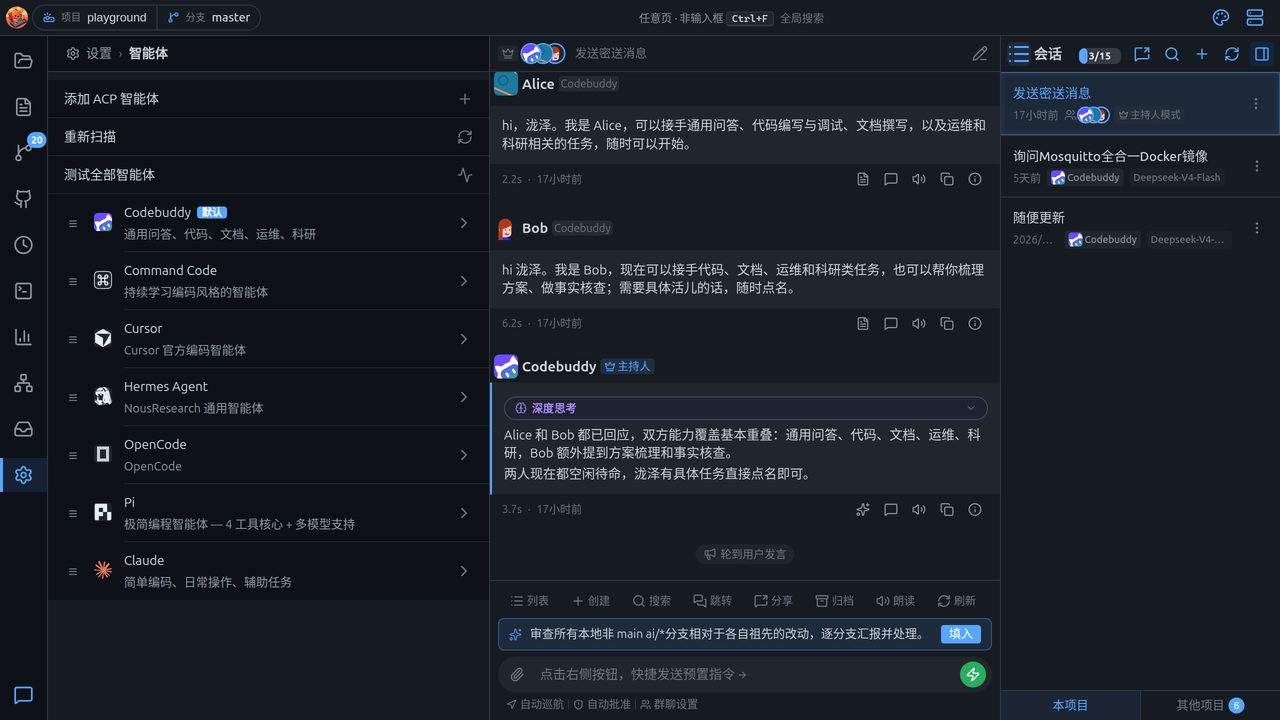
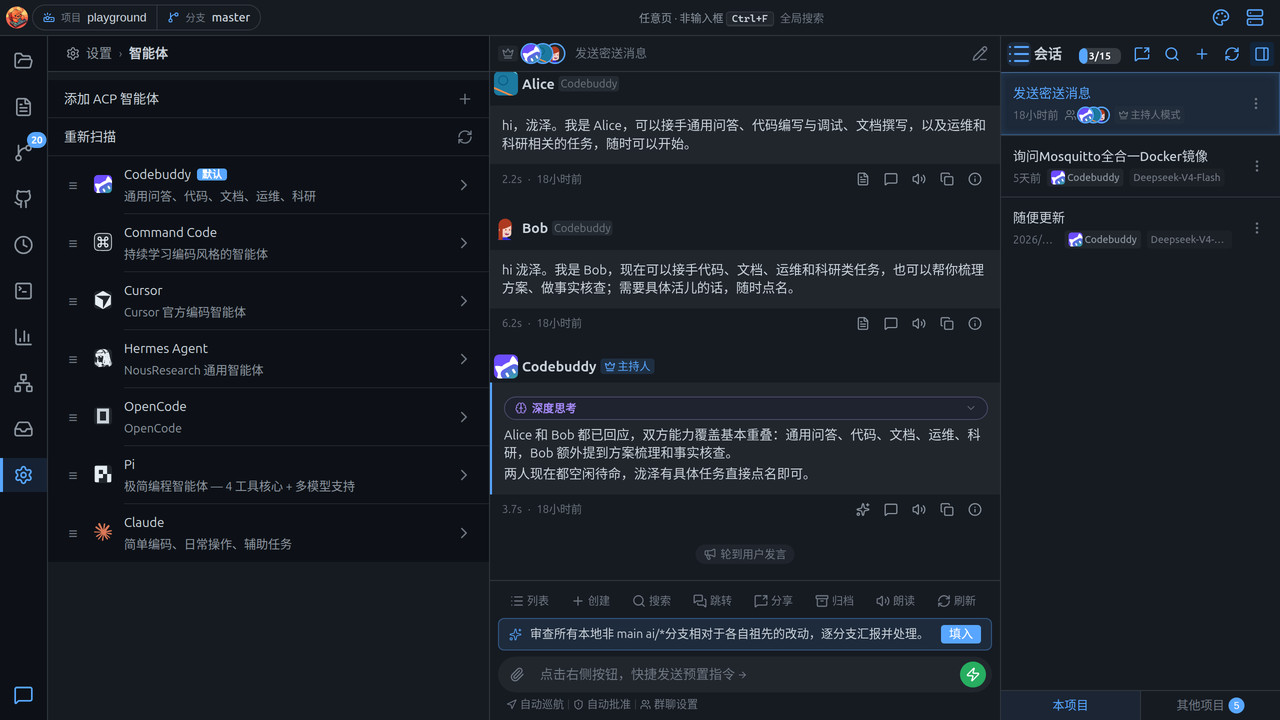
docs(agent): 补「自定义 ACP 智能体」文档并重拍智能体设置配图
#557 上线后，自定义 ACP 智能体只有 /cb-agent 提示词与 API 文档覆盖，用户手册
与设计规格都没有入口说明；同时 set-04 / group-07 两张配图还是「只有重新扫描
一行」的旧版，与当前三行入口不符。

用户手册（settings.md）
- 新增「添加内置列表之外的智能体（自定义 ACP）」：名称 + 启动命令两个字段、
  命令按空格拆分不支持引号、≤4096 字节、以服务端权限执行的信任提示。
- 新增「集成测试（自检）」：配置自检免费不 spawn、深度自检真跑一轮计费且
  配置有 fail 时不执行；「警告」不等于坏了（新 ACP 智能体首轮前无模型）。
- 说明「刚建好时模型列表为空是正常现象」，以及命令写错改 PATCH 而非删了重建。
- 只有内置后端的命令只读（由自动扫描维护）。

设计规格
- config-and-discovery：新增 #557 四条约束（backend 恒 custom-acp 且不入注册表
  ——否则 rescan 会静默覆盖用户命令；能力全靠 agent 自报；命令拆分/长度；仅
  无 spec 者可改 acp_command，空串被拒），新增自检两级一节，并在设计要点补
  「谁拥有 acp_command 由 backend 是否有 spec 决定」。
- ai-backend：补「自定义 ACP 智能体复用同一链路」与自检分两路由的原因。
- .index / README / AGENTS.md：同步索引与架构行；README 中英补该能力。
- openapi：GET /api/agents 补 backendHasSpec 语义（运行期派生，与 PATCH 守卫
  同一判据）。

配图（参数同 docs/Skills/clawbench-user-guide：2560×1440 + zoom=2，LANCZOS
降到 1280×720）
- 新增 set-agents-create-acp（添加对话框，填好未提交）与 set-agents-selftest
  （详情页 ACP 命令行 + 两个自检按钮）。
- 重拍 set-04 / group-07 / group-08。注意另一提交 bfc86162e 已移除「测试全部
  智能体」批量入口，本轮按移除后的界面重拍，并在截图脚本里断言该入口不得出现
  （出现即说明跑的是旧产物）。

验证：go test ./internal/api 与 handler 的 OpenAPI 路由/鉴权比对通过；YAML 可解析。

Changed region(s): [[0.0312, 0.2139, 0.2812, 0.825]]

diff --git a/AGENTS.md b/AGENTS.md
@@ -70,11 +70,11 @@ npx playwright test --config e2e/playwright.config.ts --project=chromium-coverag
 | `internal/wallpaper/` | 壁纸校验 / 缩放 / 编码 + 磁盘布局与生效解析；handler 与 service worker 共用。缩放上限取舍见源码注释 |
 | `internal/gitignore/` | 判定「git 是否会跟踪该路径」：go-git 模式引擎 + 来自 index 的三条规则（已跟踪文件/含已跟踪文件的目录永不忽略、祖先被排除则整体忽略、自身最后一条匹配）。文件管理器灰显与 cloc 排除共用；按真实 `git check-ignore` 差分验证 |
 | `internal/store/` | SQLite 数据层叶子包（只依赖 `model` + `dbutil`，供 `service` 与 `rag` 共用而不成环）：连接句柄与**进程级唯一写锁**（同时串行化 service 写池与 RAG 自有 `*sql.DB` 对同一文件的写）、读写原语、`projects.go` 项目注册表（path↔id 解析 + 缓存 + `ForgetProjectPath`/`RenameProject` + 跨包改名钩子）、`session_queries.go`/`cluster.go` 的跨业务会话与聚类查询 |
-| `internal/service/` | 业务逻辑：聊天持久化、摘要与推荐的调度、调度器（cron + 事件触发任务；cron 可选的前置脚本执行器 `task_script.go`，静默成功即跳过 AI 且不发通知）、SQLite、Schema 迁移、**Agent 存储与守卫**（`agent_store.go`：`disabled` 列 + `project_id` 列（`NULL`=全局，值=仅该项目可见，只拦新建入口不追溯已有会话）+ `GetAgentUsage`/`GetAllAgentUsage` 计数——会话数 = 1:1 聊天 + 活跃 `group_member` 关系、排除任务执行产生的 `scheduled` 会话；删除前校验会话/任务/成员关系非空，`PatchAgentFields` 支持 `disabled`/`project_id`，`ReorderAgents` 单事务写 `sort_order`；`model.SortAgentsByOrder` 是 DB 加载与 reorder 的唯一排序规则）、用量聚合、会话截断；**项目以整数 id 为身份**（`internal/store` 的项目注册表 + `projects_migrate.go` 的路径→id 转换：所有项目作用域表存 `project_id` 而非路径，改名/移动目录只需一条 UPDATE；`project_id=0` 是全局标签与无法归属分享的保留哨兵，故不声明外键）；**项目注册表管理**（`project_registry.go` 的 `ListAllProjects`/`GetProjectDetail`——列表只做单次 `os.Stat` 判目录是否存在、详情附 `DetectRepoLayout` 仓库类型；`project_delete.go` 的 `DeleteProjectData` 在同一事务清理约 15 张项目作用域表 + 子表，写锁内判运行中会话守卫，提交后再调 `rag.DeleteProjectData` 避免持锁死锁）；会话运行态收敛在 `session_runner.go`（单一 owner runner，运行态与可取消性同源），AI 回合编排唯一实现 `run_turn.go`，请求构造唯一实现 `chat_request.go`；**排队消息存独立表 `queued_messages`（出队才落 `chat_history`，`queue_store.go` 的 claim 在同一事务内 DELETE 队列行 + INSERT 历史行，使历史行 id 顺序恒等于对话顺序）**，队列兜底回收 `queue_reaper.go`；**AI 群聊编排器 `group_orchestrator.go`**（主持人/自由两模式共用循环内核 `drainSpeakers`/`runSpeakerTurn`；**正交的自动巡航开关** `cruise`——把循环的终止从「交回用户」改为「成员确认任务已满足」（`<clawbench-goal-satisfied/>` 标签，并入 `internal/grouprouting` 双镜像），host 一人拍板 / free 群发半数 `votes*2>=n`，六种主持人收工形态（含无标签收尾散文与大白话提问）全拦改触发确认回合、开关每回合实时读；`group_store.go` 成员与群设置、`group_inject.go` 增量注入、`group_prompt.go` 提示词、`group_member_request.go` 成员 resume、`group_member_compact.go` 单成员压缩（直接驱动该成员的 ACP 连接、状态落成员行、不在群时间线产出输出；期间消息排队、开始/完成/失败写系统行）；成员即隐藏 `chat_sessions` 行 `session_type='group_member'`，消息只存群会话，`run_turn` 新增 `TimelineSessionID` 解耦时间线语义）；`/btw` 旁路问答（`btw.go`，独立表 `btw_questions`）；**通知中心**（`notifications.go` 的 `StoreNotification`/`ListNotifications`/`ClearNotifications`/`CleanupNotifications`——单表 `notifications` 为唯一数据源，**只追加日志、无已读/无角标**，三条写入路径（会话终态、任务事件、`ForgeNotificationRecorder` sink）**不复用 `pending_events` 门控**，`created_at` 亚秒精度供 `(created_at,id)` 复合游标分页，30 天/500 条双上限；单聊自动巡航 `cruise.go` 的 `NewCruiseRunner` 与 `auto_continue.go` 对称、共用 drain 循环）；最近项目分组（`recent_project_groups.go` + `repo_layout.go`，纯文件系统识别主仓库/工作树/子目录）；含 SessionCleanupWorker / BingWallpaperWorker / ForgePoller（forge 变化轮询）、桌面端升级检查（`desktop_upgrade.go`）等后台 worker |
+| `internal/service/` | 业务逻辑：聊天持久化、摘要与推荐的调度、调度器（cron + 事件触发任务；cron 可选的前置脚本执行器 `task_script.go`，静默成功即跳过 AI 且不发通知）、SQLite、Schema 迁移、**Agent 存储与守卫**（`agent_store.go`：`disabled` 列 + `project_id` 列（`NULL`=全局，值=仅该项目可见，只拦新建入口不追溯已有会话）+ `GetAgentUsage`/`GetAllAgentUsage` 计数——会话数 = 1:1 聊天 + 活跃 `group_member` 关系、排除任务执行产生的 `scheduled` 会话；删除前校验会话/任务/成员关系非空，`PatchAgentFields` 支持 `disabled`/`project_id`，`ReorderAgents` 单事务写 `sort_order`；`model.SortAgentsByOrder` 是 DB 加载与 reorder 的唯一排序规则；`CreateCustomACPAgent` 建自定义 ACP 智能体（backend 恒 `custom-acp`、传输固定 `acp-stdio`、命令 ≤4096 字节且按空格拆分无引号））、用量聚合、会话截断；**项目以整数 id 为身份**（`internal/store` 的项目注册表 + `projects_migrate.go` 的路径→id 转换：所有项目作用域表存 `project_id` 而非路径，改名/移动目录只需一条 UPDATE；`project_id=0` 是全局标签与无法归属分享的保留哨兵，故不声明外键）；**项目注册表管理**（`project_registry.go` 的 `ListAllProjects`/`GetProjectDetail`——列表只做单次 `os.Stat` 判目录是否存在、详情附 `DetectRepoLayout` 仓库类型；`project_delete.go` 的 `DeleteProjectData` 在同一事务清理约 15 张项目作用域表 + 子表，写锁内判运行中会话守卫，提交后再调 `rag.DeleteProjectData` 避免持锁死锁）；会话运行态收敛在 `session_runner.go`（单一 owner runner，运行态与可取消性同源），AI 回合编排唯一实现 `run_turn.go`，请求构造唯一实现 `chat_request.go`；**排队消息存独立表 `queued_messages`（出队才落 `chat_history`，`queue_store.go` 的 claim 在同一事务内 DELETE 队列行 + INSERT 历史行，使历史行 id 顺序恒等于对话顺序）**，队列兜底回收 `queue_reaper.go`；**AI 群聊编排器 `group_orchestrator.go`**（主持人/自由两模式共用循环内核 `drainSpeakers`/`runSpeakerTurn`；**正交的自动巡航开关** `cruise`——把循环的终止从「交回用户」改为「成员确认任务已满足」（`<clawbench-goal-satisfied/>` 标签，并入 `internal/grouprouting` 双镜像），host 一人拍板 / free 群发半数 `votes*2>=n`，六种主持人收工形态（含无标签收尾散文与大白话提问）全拦改触发确认回合、开关每回合实时读；`group_store.go` 成员与群设置、`group_inject.go` 增量注入、`group_prompt.go` 提示词、`group_member_request.go` 成员 resume、`group_member_compact.go` 单成员压缩（直接驱动该成员的 ACP 连接、状态落成员行、不在群时间线产出输出；期间消息排队、开始/完成/失败写系统行）；成员即隐藏 `chat_sessions` 行 `session_type='group_member'`，消息只存群会话，`run_turn` 新增 `TimelineSessionID` 解耦时间线语义）；`/btw` 旁路问答（`btw.go`，独立表 `btw_questions`）；**通知中心**（`notifications.go` 的 `StoreNotification`/`ListNotifications`/`ClearNotifications`/`CleanupNotifications`——单表 `notifications` 为唯一数据源，**只追加日志、无已读/无角标**，三条写入路径（会话终态、任务事件、`ForgeNotificationRecorder` sink）**不复用 `pending_events` 门控**，`created_at` 亚秒精度供 `(created_at,id)` 复合游标分页，30 天/500 条双上限；单聊自动巡航 `cruise.go` 的 `NewCruiseRunner` 与 `auto_continue.go` 对称、共用 drain 循环）；最近项目分组（`recent_project_groups.go` + `repo_layout.go`，纯文件系统识别主仓库/工作树/子目录）；含 SessionCleanupWorker / BingWallpaperWorker / ForgePoller（forge 变化轮询）、桌面端升级检查（`desktop_upgrade.go`）等后台 worker |
 | `internal/ai/` + `backends/` | AI 后端抽象：`AIBackend` → `CLIBackend`（CLI+行解析）或 `ACPBackend`（JSON-RPC over stdio）；18 个后端子包；CLI/ACP 均支持无进度看门狗（ACP 侧按**模型进展**判定，与连接活性双信号分离）；`compact_detect.go` 识别各后端上下文压缩信号（压缩后下一轮重注入系统提示；精确信号 = 工具调用/`_meta`/协议事件/adapter 自己的完成通知文本，兜底 = usage 占用塌陷 ≥60%；模型在回复里自称「已压缩」的散文不算数）；**运行中插话**（`midturn.go` 的 `MidTurnInjector` 按后端分列：CodeBuddy `session/steer` 可切分回复 / Claude·Codex `_session/steering` 只能合并——能力位 `MidTurnSplitsReply` 决定前端是否标「回复已并入上一轮」；注入走裸 `CallRaw` 通道与 SDK 共用 lockedWriter，且必须先过 `PromptInFlight()` 防 Codex 幽灵轮）；**点选切模型**（`ACPPlugin.ModelSwitchMethod` + `acp_model_switch.go`：Hermes 收 `set_config_option(model)` 只存不读，真正认 `session/set_model`）；ACP 客户端能力按 agent 定制（CodeBuddy 隐藏 Terminal / `fs.readTextFile`——声明能力会替换其原生工具实现）；ACP 连接缓存状态用 leaf lock `stateMu`（绝不在 RPC 期间持有），避免通知回调与在飞 RPC 互相等待致通知队列溢出杀连接 |
 | `internal/askquestion/` | `<clawbench-ask-question>` 载荷解析的**唯一** Go 实现（叶子包，不 import 任何 internal 包）；与前端 `web/src/utils/askQuestion.ts` 互为镜像，由 `testdata/parity_corpus.json` 双向固化。契约：检测即解析；不可解析时剥离标签、把标签内文字作为 Fallback 交给 Markdown 渲染（`Match.Fallback`），**绝不丢内容**。旧 XML 子元素格式与标签内 JSON 已不再解析 |
 | `internal/grouprouting/` | 群聊路由标签（`<clawbench-mention targets="A,B">…</clawbench-mention>` + `<clawbench-group-end/>`）解析的**唯一** Go 实现（叶子包，不 import 任何 internal 包）；与前端 `web/src/utils/groupRouting.ts` 互为镜像，由 `testdata/parity_corpus.json` 双向固化。契约与 askquestion 一致（检测即解析、不可解析不剥离、绝不丢内容）。密送（`private` 提及）的注入侧 fail-closed（`StripProtocolTags` 剥一切畸形/嵌套形态）与显示侧 fail-open 分列两套 |
-| `internal/model/` | 数据模型、后端注册表、模型发现（`ModelSource` 注册表 + 单一合并点 `ResolveModels`）、27 个 LLM Provider；Agent 含 `avatar`（用户自选的 DiceBear SVG）、`disabled`（禁用开关）与 `project_id`（「仅当前项目」作用域）字段，都贯穿 DB 列与两条持久化路径（`LoadAgentsFromDB`/`loadAgentsFromDBRows` 读、`SaveAgent`/`saveAgentToDB` 写）；`SortAgentsByOrder`（`sort_order` 升序 + `id` 决胜）是 DB 加载与 reorder 共用的唯一排序规则；`ThinkingEffortByModel`（`agents.thinking_effort_by_model`）按模型 id 记忆用户显式选择的思考档位；真正解析一轮用哪个档位的是 `service.EffectiveThinkingEffortForModel`（`chat_request.go` / `scheduler.go` / 会话切模型共用），优先级 = 该模型的选择 > 全局默认（**但全局默认须在该模型的支持列表里**，否则留空交给 agent 自决）；agent 自报的档位只用于显示 |
+| `internal/model/` | 数据模型、后端注册表、模型发现（`ModelSource` 注册表 + 单一合并点 `ResolveModels`）、27 个 LLM Provider；Agent 含 `avatar`（用户自选的 DiceBear SVG）、`disabled`（禁用开关）与 `project_id`（「仅当前项目」作用域）字段，都贯穿 DB 列与两条持久化路径（`LoadAgentsFromDB`/`loadAgentsFromDBRows` 读、`SaveAgent`/`saveAgentToDB` 写）；`SortAgentsByOrder`（`sort_order` 升序 + `id` 决胜）是 DB 加载与 reorder 共用的唯一排序规则；`ThinkingEffortByModel`（`agents.thinking_effort_by_model`）按模型 id 记忆用户显式选择的思考档位；真正解析一轮用哪个档位的是 `service.EffectiveThinkingEffortForModel`（`chat_request.go` / `scheduler.go` / 会话切模型共用），优先级 = 该模型的选择 > 全局默认（**但全局默认须在该模型的支持列表里**，否则留空交给 agent 自决）；agent 自报的档位只用于显示；**`CustomACPBackend = "custom-acp"` 刻意不在 `BackendRegistry` 里**（用户自定义 ACP 智能体的 backend）——`RefreshAgents` 的 `syncAgentInfrastructure` 按 backend 重写 `acp_command`，进了注册表用户的命令会在下次 rescan/启动时被静默覆盖；`BackendHasSpec` 是运行期字段（加载时由 `FindSpecByBackend != nil` 算出），前端据此决定 ACP 命令行是输入框还是只读，与 PATCH 守卫同一判据 |
 | `internal/speech/` + `internal/stt/` | 语音：TTS（Edge / OpenAI 兼容 / Piper / Kokoro / MOSS-TTS-Nano）与 STT（vLLM Whisper，流式 + 非流式） |
 | `internal/rag/` | RAG：SQLite + sqlite-vec 向量存储 + FTS5 全文检索，OpenAI 兼容嵌入 API；消息聚类（ClusterWorker） |
 | `internal/terminal/` | Web 终端：PTY 会话、环形缓冲回放、多标签 |

diff --git a/docs/spec/README.md b/docs/spec/README.md
@@ -17,7 +17,7 @@ ClawBench 是移动端交互适配优先、桌面端完整支持的多端 AI 工
 | 模块 | 说明 |
 |------|------|
 | [聊天流程](core/chat-flow.md) | 用户发消息到 AI 回复的完整链路：handler → 唯一 turn 实现 → AI 后端 → WebSocket StreamHub → 前端；含 ACP 权限审批、交互式提问卡（`<clawbench-ask-question>` → AskUserQuestion 工具调用，单选可取消，答案状态跨重渲染持久化）、/cb-* 内置命令注入（含 `conversationProjectsList` 跨项目定位）、`/btw` 旁路问答（摘要模型基于压缩快照作答，独立表 `btw_questions`、不进对话）、请求构造唯一实现（直发与排队路径一致）、**异常终止自动续接**（分类器与消息构造唯一实现，取消优先）、文件附件行范围、自动摘要（AI 失败降级结论文本）、分叉上下文按优先级压缩（保留全部用户消息）、thinking 惰性加载、子智能体内容分组（按 `_meta` 父工具调用 id 折叠进父 Agent 卡片）、工具调用耗时、消息元信息区在气泡外（用户消息同样支持复制/详情）、会话重置（卡死会话一键重启进程保留上下文）、消息回溯 Rewind（原址截断会话历史并重启 AI 会话，同时清空计划面板）、完成通知（后台事件时纯通知卡片，类别 chip + 事件类型 chip + 主体名称 + 最多 4 行摘要 + 跨项目整卡换色与区隔带 + 跳转顺带标记已读 + 关闭，5 秒自动关闭，覆盖会话/任务/仓库且与系统通知对齐，详见[应用内完成通知](features/completion-popup.md)）、未读自动清除、错误码透传与展示、取消耗时与 finalize 阶段计时、滚动保持机制、按项目恢复上次会话、输入草稿与会话快照恢复、独立表消息队列（`queued_messages` 出队才落库，drain loop 原子出队 + 出队熔断 + 兜底回收器；DB id 顺序即对话顺序）、**运行中插话**（排队条目并入正在生成的回复，合并式后端标 `injected`）、流式块保序合并（mergeOrderedBlocks）、ACP `_meta` Token/成本明细（最新完整快照合并，供[用量统计](features/usage-stats.md)聚合）展示 |
-| [AI 后端抽象](core/ai-backend.md) | 双传输后端（CLI shell-out + ACP stdio）、流式事件累加（AccumulateBlock + 回放检测 + 连续 thinking 合并 + AskQuestion 转换）、ACP 状态提取（mode/thinking/model）、ACP 崩溃诊断、acpStdoutFilter 协议修复（含 SessionModelState 提取）、ACP context_state 持久化、ACP 会话恢复重试与 NewSessionFallback（Initialize 握手超时短路为类型化错误、不作断连重试）、thinking 惰性加载、CodeWhale 字段重映射、Grok Build 双传输（ACP + streaming-json CLI）、ZCode ACP 桥接（zcode-acp-server）、共享规则模板、跨智能体 Skill 发现（`internal/skill`：递归扫描 + 五类来源去重（含项目级 `.agents/skills`）+ git 源同步 + `service.AppendSkillsSection` 两处 prompt 注入）、连接管理（AgentID/BackendID 无锁防死锁、用户取消保护存活连接、ensureAliveWithSession 使用 ResumeSession）、LoadSession 异步回放、ListSessions 磁盘扫描回退、EnsureAlive、CodeBuddy MCP 配置注入、CodeBuddy Plugin Skills 竞态修复、CodeBuddy Agent Teams 桥接（`teamUpdate`/`memberEvent` 按成员名回填 parent id）、客户端能力协商按 agent 定制（Terminal / fs.readTextFile 作为行为开关）、ACP `_meta` 扩展元信息解析（per-agent 归一化 → chat_metadata）、子智能体父工具调用归属（`_meta` parentToolCallId / parentToolUseId → ParentToolCallID）、压缩后系统提示重注入（compact_detect）、重放过滤按整轮 requestId 集合判定、无进度看门狗按模型进展判定（与连接活性双信号分离）、**运行中插话策略按后端分列**（CodeBuddy `session/steer` 可切分 / Claude·Codex `_session/steering` 合并降级，`MidTurnSplitsReply` 能力位 + `PromptInFlight()` 幽灵轮守卫，注入走裸 `CallRaw` 通道） |
+| [AI 后端抽象](core/ai-backend.md) | 双传输后端（CLI shell-out + ACP stdio）、流式事件累加（AccumulateBlock + 回放检测 + 连续 thinking 合并 + AskQuestion 转换）、ACP 状态提取（mode/thinking/model）、ACP 崩溃诊断、acpStdoutFilter 协议修复（含 SessionModelState 提取）、ACP context_state 持久化、ACP 会话恢复重试与 NewSessionFallback（Initialize 握手超时短路为类型化错误、不作断连重试）、**用户自定义 ACP 智能体复用同一链路**（`custom-acp` 无 spec ⇒ 无 CLI 传输、无 ModelSource，能力全靠 agent 自报）、**智能体自检两级**（静态不 spawn 不计费 / 深度真跑一轮计费，分两个路由）、thinking 惰性加载、CodeWhale 字段重映射、Grok Build 双传输（ACP + streaming-json CLI）、ZCode ACP 桥接（zcode-acp-server）、共享规则模板、跨智能体 Skill 发现（`internal/skill`：递归扫描 + 五类来源去重（含项目级 `.agents/skills`）+ git 源同步 + `service.AppendSkillsSection` 两处 prompt 注入）、连接管理（AgentID/BackendID 无锁防死锁、用户取消保护存活连接、ensureAliveWithSession 使用 ResumeSession）、LoadSession 异步回放、ListSessions 磁盘扫描回退、EnsureAlive、CodeBuddy MCP 配置注入、CodeBuddy Plugin Skills 竞态修复、CodeBuddy Agent Teams 桥接（`teamUpdate`/`memberEvent` 按成员名回填 parent id）、客户端能力协商按 agent 定制（Terminal / fs.readTextFile 作为行为开关）、ACP `_meta` 扩展元信息解析（per-agent 归一化 → chat_metadata）、子智能体父工具调用归属（`_meta` parentToolCallId / parentToolUseId → ParentToolCallID）、压缩后系统提示重注入（compact_detect）、重放过滤按整轮 requestId 集合判定、无进度看门狗按模型进展判定（与连接活性双信号分离）、**运行中插话策略按后端分列**（CodeBuddy `session/steer` 可切分 / Claude·Codex `_session/steering` 合并降级，`MidTurnSplitsReply` 能力位 + `PromptInFlight()` 幽灵轮守卫，注入走裸 `CallRaw` 通道） |
 | [流式传输体系](core/streaming.md) | 单一 WebSocket StreamHub（含断线 ≤10s 缓冲重放、≤50 条上限、>120s 清理订阅）+ 旁注小 SSE/WS 通道；含前端重连状态同步、subscribeOnly 模式、replay_done 事件、投递可观测（`/api/ws/delivery-stats`）、关键事件等待/高频增量丢弃的双层分级、遥测类事件非缓冲投递、流式入库批量合并与 Finalize thinking 单事务重写、前端有界缓冲回放 |
 | [会话生命周期](core/session-lifecycle.md) | 聊天会话的创建、执行、排队、取消、归档（软删除）、物理删除（Destroy）、续接对话（标题时间戳前缀 + 锁定）、分叉（含 beforeMessageId、可选 Agent）、会话标题派生（transcript 双候选提取）、设置即时持久化、会话标签、异常终止自动续接（取消原因优先，与其他路径共用分类器）、过期归档自动清理、Codex 项目级历史会话发现（磁盘扫描 + ACP 合并）、单一 owner runner（运行态与可取消性同源）、唯一 turn 实现与队列兜底回收、优雅退出（WaitStreamsDrained + GracefulStopAll 等待流落库再回收进程） |
 | [摘要管线](core/summarization.md) | 双管线（TTS vs 阅读摘要）、summarizeMessage 统一调度、SummaryCards 结构化卡片、摘要视图 warning/error 横幅通道、多 pass 压缩、Block 提取算法、降级链（AI 失败使用结论文本）、热重载、推荐回复（stable/rolling 分离 + prompt caching） |
@@ -56,7 +56,7 @@ ClawBench 是移动端交互适配优先、桌面端完整支持的多端 AI 工
 | [国际化](infra/i18n.md) | go-i18n bundle、嵌入式 YAML 翻译、X-Locale/Cookie/Accept-Language 优先级链、推送通知独立 Localizer |
 | [SSH 隧道](infra/ssh-tunnel.md) | 双传输：SSH 通道（direct-tcpip 正向 + tcpip-forward/forwarded-tcpip 反向）与 HTTP/2 流隧道（`/api/tunnel/stream` 数据面 + `/api/tunnel/control` 反向控制面，单端口 20000 多路复用，`-R` 靠控制流通知 + 单次 token 认领）、传输方式 `port_forward.transport` **已钉死为 `both`**（服务端在 `ApplyDefaults` 与 PATCH 路径均无条件归一，`ssh`/`h2` 不可达——该字段只剩 web 端健康检查门控一个消费者，两个原生客户端都不消费：Electron 写死 SSH、Android 用本地 SharedPreferences 开关 `tunnel_transport_h2_enabled`；故「服务端只准 ssh」不可执行，已移除可配置性；字段保留以免 web 读到 `undefined` 而误判 ssh-only）、半关闭与 SSH **有界近似**而非逐条等价、方向语义、反向映射仅绑 127.0.0.1 且禁绑保留端口、密码认证、自动 host key、暴力破解防护、端口白名单默认 1024-65535（ISS-186 修复）、端点按受众拆分（公开 `/api/ssh/info` 仅端口发现，`/api/ssh/info/full` 需鉴权） |
 | [Proxy 注册表](infra/proxy.md) | 方向感知（forward/reverse）、反向代理与 Host 头重写（仅正向）、服务器端口分配与保留端口、特权端口映射、健康检查（反向跳过拨号）、并行端口探测（有界并发 + 扫描错误可见）、前端端口展示、CORS 代理（Swagger UI "Try it out"） |
-| [配置与自动发现](infra/config-and-discovery.md) | 零配置启动、DB-backed Agent 存储、双传输选择、供应商注册表、Model 自动发现（启动同步加载 + 后台探测广播 `agents_updated`；含 Kimi 与 Codex 自定义模型发现函数）、ACP 运行时模型验证、**智能体生命周期管理**（会话/任务计数 + 禁用开关 + 删除守卫，会话数含活跃群成员关系、排除任务执行会话）、**「仅当前项目」作用域**（`project_id` 只拦新建入口不追溯历史；默认智能体不可被限定、项目级智能体不可为默认）、**拖拽排序**（`PUT /api/agents/reorder` + `model.SortAgentsByOrder` 唯一排序规则）、多实例 Cookie 隔离、TLS 证书自动发现、Schema 迁移（列探针 + `schema_migrations` 数据迁移台账）、项目 id 化注册表（项目路径→`project_id`，改名即一条 UPDATE）+ 项目注册表管理面（列表/详情/删除数据，锁序与缓存失效陷阱）、默认项目持久化、配置连通性测试、覆盖率门禁 |
+| [配置与自动发现](infra/config-and-discovery.md) | 零配置启动、DB-backed Agent 存储、双传输选择、供应商注册表、Model 自动发现（启动同步加载 + 后台探测广播 `agents_updated`；含 Kimi 与 Codex 自定义模型发现函数）、ACP 运行时模型验证、**用户自定义 ACP 智能体**（`#557`：`backend=custom-acp` 刻意不入注册表，否则 `rescan` 会重写用户填的命令；命令按空格拆分、≤4096 字节；`acp_command` 仅「无 spec」的 agent 可改，前端用服务端 `backendHasSpec` 判定只读）、**智能体自检两级**（配置自检不 spawn 不计费 / 深度自检真跑一轮计费，分两个路由以免误触付费）、**智能体生命周期管理**（会话/任务计数 + 禁用开关 + 删除守卫，会话数含活跃群成员关系、排除任务执行会话）、**「仅当前项目」作用域**（`project_id` 只拦新建入口不追溯历史；默认智能体不可被限定、项目级智能体不可为默认）、**拖拽排序**（`PUT /api/agents/reorder` + `model.SortAgentsByOrder` 唯一排序规则）、多实例 Cookie 隔离、TLS 证书自动发现、Schema 迁移（列探针 + `schema_migrations` 数据迁移台账）、项目 id 化注册表（项目路径→`project_id`，改名即一条 UPDATE）+ 项目注册表管理面（列表/详情/删除数据，锁序与缓存失效陷阱）、默认项目持久化、配置连通性测试、覆盖率门禁 |
 | [事件体系](infra/event-system.md) | ws.Manager 系统广播、StreamHub 会话扇出、断线缓冲重放、遥测非缓冲投递（`system_resources`）、投递丢弃计数（`/api/ws/delivery-stats`）与关键事件可靠投递、摘要与权限事件推送 |
 | [应用自升级](infra/self-upgrade.md) | 版本检查、安装目录可写预检、镜像 tarball URL 归一化、备份替换、进度推送、服务重启与断线轮询、容器内强制就地替换 |
 | [版本号策略](infra/versioning.md) | versionCode（`major*1e8+minor*1e5+patch*1e3+distance`，决定 Android 能否覆盖安装）与 versionName（仅展示）两套口径；CI 走 `--tag-only` 只拉 tag ref 不拉历史，本地走 `git describe` 含 distance；位宽防 `v0.100.0`/`v1.0.0` 撞码；release 带 `--assert` 防退化；桌面载荷只经 npm 分发 + npm 发布走 OIDC Trusted Publishing |

diff --git a/docs/spec/.index.md b/docs/spec/.index.md
@@ -10,7 +10,7 @@
 ### core/ — 核心业务
 
 - [聊天流程](core/chat-flow.md) — 用户发消息到 AI 回复的完整链路，含 ACP 权限审批、交互式提问卡（`<clawbench-ask-question>` → AskUserQuestion 工具调用，单选可取消，答案状态跨重渲染持久化）、/cb-* 内置命令注入（含跨项目项目定位）、`/btw` 旁路问答（摘要模型基于压缩快照作答，独立表 `btw_questions`、不进对话）、唯一 turn 实现与请求构造唯一实现、异常终止自动续接（分类器与消息构造唯一实现，取消优先）、**单聊自动巡航**（会话级正交开关，确认轮循环 + 严格规则 + 上限复用 `group_max_speeches`，与续接互斥）、完成弹窗、未读自动清除、错误码透传、滚动保持机制、按项目恢复会话、输入草稿与会话快照恢复、多模式摘要（mixed/summary/original 消息展示模式）、独立表消息队列（`queued_messages` 出队才落库 + 熔断 + 兜底回收器）、运行中插话（排队条目并入正在生成的回复，合并式后端标 `injected`）、流式块保序合并（mergeOrderedBlocks）、消息元信息区在气泡外、会话重置与消息回溯 Rewind（含清空计划面板）、ACP _meta 用量明细展示（最新完整快照）、子智能体内容分组（按 _meta 父工具调用 id 折叠进父 Agent 卡片）、团队（Agent Teams）成员内容按成员名归组
-- [AI 后端抽象](core/ai-backend.md) — 双传输后端（CLI + ACP stdio）、18 个后端子包（插件注册：init 注册 + 空白 import，含 Cursor / Hermes Agent / Command Code）、acpStdoutFilter 协议修复、CodeWhale ACP 字段重映射、BackendRegistry、共享规则模板、运行中插话策略按后端分列（CodeBuddy `session/steer` 可切分 / Claude·Codex `_session/steering` 合并降级 + `PromptInFlight()` 幽灵轮守卫）、点选切模型（`ModelSwitchMethod`，Hermes 走 `session/set_model`；瞬时/硬失败分流 + `-32603` 按文案判忙）、跨智能体 Skill 发现（`internal/skill`：递归扫描 + 五类来源去重（含项目级 `.agents/skills`）+ git 源同步 + 两处 prompt 注入 + `#技能名` 手动引用）、CodeBuddy Agent Teams 桥接（`teamUpdate`/`memberEvent` 按成员名回填 parent id）、客户端能力协商按 agent 定制（Terminal / fs.readTextFile 的行为开关）、ACP `_meta` 扩展元信息解析、子智能体父工具调用归属（parent linkage）、压缩后系统提示重注入（compact_detect）、重放过滤按整轮 requestId 集合判定、看门狗按模型进展判定、Initialize 超时不作断连重试
+- [AI 后端抽象](core/ai-backend.md) — 双传输后端（CLI + ACP stdio）、18 个后端子包（插件注册：init 注册 + 空白 import，含 Cursor / Hermes Agent / Command Code）、acpStdoutFilter 协议修复、CodeWhale ACP 字段重映射、BackendRegistry、**用户自定义 ACP 智能体复用同一 ACP 链路**（`custom-acp` 无 spec：无 CLI 传输/无 ModelSource，能力全靠 agent 自报）、**自检两级**（静态不 spawn 不计费 / 深度真跑一轮；`backend_known` 判据是「有 spec 或有 CLI 工厂或有 acp_command」）、共享规则模板、运行中插话策略按后端分列（CodeBuddy `session/steer` 可切分 / Claude·Codex `_session/steering` 合并降级 + `PromptInFlight()` 幽灵轮守卫）、点选切模型（`ModelSwitchMethod`，Hermes 走 `session/set_model`；瞬时/硬失败分流 + `-32603` 按文案判忙）、跨智能体 Skill 发现（`internal/skill`：递归扫描 + 五类来源去重（含项目级 `.agents/skills`）+ git 源同步 + 两处 prompt 注入 + `#技能名` 手动引用）、CodeBuddy Agent Teams 桥接（`teamUpdate`/`memberEvent` 按成员名回填 parent id）、客户端能力协商按 agent 定制（Terminal / fs.readTextFile 的行为开关）、ACP `_meta` 扩展元信息解析、子智能体父工具调用归属（parent linkage）、压缩后系统提示重注入（compact_detect）、重放过滤按整轮 requestId 集合判定、看门狗按模型进展判定、Initialize 超时不作断连重试
 - [流式传输体系](core/streaming.md) — 统一 WebSocket StreamHub + 断线缓冲重放 + 投递可观测（delivery-stats）+ 关键事件等待/增量丢弃双层分级 + 遥测非缓冲投递 + 流式入库批量合并与 Finalize thinking 单事务重写 + 前端有界缓冲回放 + 前端静默看门狗（预算由 loading 边沿驱动）+ 旁注小 SSE/WS 通道（file_watch/dir_search/tts_audio）
 - [会话生命周期](core/session-lifecycle.md) — 创建、执行、取消、设置即时持久化、归档、异常终止自动续接（取消优先）、单一 owner runner（运行态与可取消性同源）、唯一 turn 实现与队列兜底回收
 - [摘要管线](core/summarization.md) — 双管线（TTS vs 阅读摘要）、多 pass 压缩、Block 提取算法、降级链
@@ -45,7 +45,7 @@
 - [认证与中间件](infra/auth-and-middleware.md) — 密码认证、本机 AI 短时令牌、隧道信任边界限制、按路由认证、请求链
 - [SSH 隧道](infra/ssh-tunnel.md) — direct-tcpip、端口映射、端口白名单默认 1024-65535（ISS-186）、端点按受众拆分（`/api/ssh/info` 公开最小 / `/full` 需鉴权）
 - [Proxy 注册表](infra/proxy.md) — 端口管理、路由、并行端口探测（有界并发 + 收紧超时 + 错误可见）、前端展示
-- [配置与自动发现](infra/config-and-discovery.md) — 零配置启动、DB-backed Agent、双传输、Model 发现（CLI 输出随版本漂移需 header 感知解析）、**智能体生命周期管理（会话/任务计数 + 禁用开关 + 删除守卫 + 「仅当前项目」作用域 + 拖拽排序）**、多实例 Cookie 隔离、Schema 迁移（列探针 + 数据迁移台账）、项目 id 化注册表（项目路径→`project_id`，改名即一条 UPDATE）、覆盖率门禁
+- [配置与自动发现](infra/config-and-discovery.md) — 零配置启动、DB-backed Agent、双传输、Model 发现（CLI 输出随版本漂移需 header 感知解析）、**用户自定义 ACP 智能体（#557：backend 恒 `custom-acp` 且不入注册表，否则命令会被 rescan 覆盖；空格拆分无引号；`acp_command` 仅无 spec 者可改）**、**智能体自检两级（配置自检不 spawn 不计费 / 深度自检真跑一轮；`backend_known` 判据不是「在注册表里」）**、**智能体生命周期管理（会话/任务计数 + 禁用开关 + 删除守卫 + 「仅当前项目」作用域 + 拖拽排序）**、多实例 Cookie 隔离、Schema 迁移（列探针 + 数据迁移台账）、项目 id 化注册表（项目路径→`project_id`，改名即一条 UPDATE）、覆盖率门禁
 - [国际化](infra/i18n.md) — go-i18n bundle、嵌入式 YAML 翻译、X-Locale/Cookie/Accept-Language 优先级链、推送通知独立 Localizer
 - [事件体系](infra/event-system.md) — WebSocket Manager / StreamHub、ACP 状态重发、缓冲重放（≤10s / ≤50 条）、订阅超时清理（>120s）、遥测非缓冲投递（system_resources）、投递丢弃计数与关键事件可靠投递
 - [应用自升级](infra/self-upgrade.md) — 版本检查、安装目录可写预检、备份替换、进度事件、重启恢复、容器内就地替换

diff --git a/README.en.md b/README.en.md
@@ -110,7 +110,7 @@ clawbench
 | 🎨 **Code Preview & Editing** | CodeMirror browse/edit dual mode, syntax highlighting, autocompletion (11 languages), **Sticky Scroll**, VS Code-style search bar, diff flash highlighting, **Excalidraw canvas** (`.xdraw` / `.excalidraw`), **HTML render preview** (sandboxed iframe, shared by the quick-preview pane and the viewer), path jumps with line ranges |
 | 📝 **Markdown** | Render/source toggle, TOC drawer, LaTeX, Mermaid, image lightbox, **code-link preview overlay**, **self-contained HTML export** (KaTeX fonts inlined) |
 | 📄 **Documents & Media** | Native Word / Excel / PowerPoint rendering, paged PDF with zoom, inline image/audio/video players, lightbox |
-| 🤖 **AI Agents** | **18 backends** (CodeBuddy, Claude Code, OpenCode, Codex, Qoder, VeCLI, CodeWhale, DeepSeek Harness, MiMo, Pi, Copilot, Kimi, Antigravity, Grok Build, ZCode, Cursor, Hermes Agent, Command Code), streaming responses, visible reasoning, **sub-agent content grouping**, **multi-agent team panel** (CodeBuddy Agent Teams: member roster with status, tool counts and token usage; member badge on permission cards), **custom avatars** (40 DiceBear styles; changing the seed re-renders every tile), **drag-to-reorder** (order applies globally), thinking-depth levels (**remembered per agent + model**, so switching models does not carry the previous level over), persisted model choice, **tap-to-switch model** (Hermes goes through `session/set_model`), persisted ACP context state, **session/task counts + disable toggle + delete guard** (a disabled agent is hidden from every creation entry; existing sessions are unaffected), **"current project only" scope** (an agent visible in just one project), **cross-agent skill discovery** (a Skill installed by any agent is visible to all agents, including **project-local `.agents/skills`**, with git-source sync and deduplication; auto-injection is opt-in, off by default) |
+| 🤖 **AI Agents** | **18 backends** (CodeBuddy, Claude Code, OpenCode, Codex, Qoder, VeCLI, CodeWhale, DeepSeek Harness, MiMo, Pi, Copilot, Kimi, Antigravity, Grok Build, ZCode, Cursor, Hermes Agent, Command Code), **custom ACP agents** (any tool that speaks ACP over stdio — give it a spawn command, no backend adapter needed), streaming responses, visible reasoning, **sub-agent content grouping**, **multi-agent team panel** (CodeBuddy Agent Teams: member roster with status, tool counts and token usage; member badge on permission cards), **custom avatars** (40 DiceBear styles; changing the seed re-renders every tile), **drag-to-reorder** (order applies globally), thinking-depth levels (**remembered per agent + model**, so switching models does not carry the previous level over), persisted model choice, **tap-to-switch model** (Hermes goes through `session/set_model`), persisted ACP context state, **session/task counts + disable toggle + delete guard** (a disabled agent is hidden from every creation entry; existing sessions are unaffected), **"current project only" scope** (an agent visible in just one project), **cross-agent skill discovery** (a Skill installed by any agent is visible to all agents, including **project-local `.agents/skills`**, with git-source sync and deduplication; auto-injection is opt-in, off by default) |
 | 💬 **AI Conversation** | Tool-call visualization, **interactive question cards**, suggested replies, slash commands (ACP + built-in merged, including **`/btw` side questions** — answered by the summary model from a session snapshot without occupying the current agent), **unified quote cards** (selection / file / issue / pipeline / message share one form; notes editable, jump back to source; a **target-session picker** always appears, offering "add only", "add and open", or a brand-new session, so you can quote across conversations), **external links rendered as selectable text** (long-press to copy; a tap shows the full URL and asks before leaving the app), message queue, **mid-turn interjection** (fold a message into the reply being generated; merge-only backends like Claude/Codex mark it "merged into previous reply"), disconnect protection, **auto-continue on abnormal termination**, **auto-cruise** (a per-session orthogonal switch: the AI keeps pushing the task forward until it confirms completion, instead of handing the floor back after one reply), rewind & fork, auto-summary, RAG result cards, draft restore, completion popup |
 | 👥 **AI Group Chat** | **Multi-agent collaboration/debate**: bring several agents (across backends) into one group. **Host mode** — a host decides who speaks next and gives the instruction; members speak in turn sharing context and a summary is produced at the end; **Free mode** — no host, members relay via **@-mentions**, and can @ you to hand the floor back. **Auto-cruise** (an orthogonal switch) — when on, the loop no longer hands the floor back; members keep working until they confirm the task is done (host decides alone / free mode confirms by majority), with an "Auto-cruise" chip in the session info bar. **The same agent can be added multiple times (instances)** — each instance gets its own nickname (name-pool) and avatar, and discloses the **real agent name**; members have **independent persistent connections** (reusing resume/idle reclamation), **incremental injection** (only what's new since a member last spoke), **@-mention cards** (the card itself is the public call-out, its note is the BCC), **user nickname** (how members address you; kept distinct from agent names both ways), **BCC** (visible to one member only), **parallel speaking** (simultaneously, without seeing each other), **per-member context usage & single-member compaction** (see each member's own window in the roster, compact one member without disturbing the group timeline), member add/remove system events, in-group attachments & quotes, **tap a speaker's avatar to open that agent's config**, human interruption anytime (queued as "interject"), `/cb-*` commands run by the host |
 | 📂 **Session Management** | Create / switch / archive / **remove** sessions, **session tags** (project-scoped, hash-colored), **AI auto-naming** (title generated by the summary model after the first message; shares one implementation with manual "generate title"), unread counted **per item**, per-project session restore, swipe-to-switch toggle, **session sharing** (public read-only link to a conversation snapshot, with in-page TOC, managed per project) |

diff --git a/docs/spec/core/ai-backend.md b/docs/spec/core/ai-backend.md
@@ -91,7 +91,8 @@ sequenceDiagram
 - **CodeBuddy Task* → plan_update 桥接**：CodeBuddy 不发 ACP 的 `session/update.plan` 通知——它的任务清单由 TaskCreate/TaskUpdate/TaskList 工具维护，因此前端「执行计划」面板对 CodeBuddy 会话一直空白。桥接层读取这些工具终态结果中 `_meta["codebuddy.ai/rawResponse"]` 携带的**操作后完整任务快照**（`todos[].content` 为标题、status 为 pending/in_progress/completed），映射为 `plan_update` StreamEvent（全量快照替换语义，与真实 ACP plan 通知一致），并把 PlanState 缓存在连接上，使刷新/重连/REST 加载会话后计划面板仍能重建
 - **OpenCode `todowrite` → plan_update 桥接（`opencode_plan_bridge.go`）**：OpenCode 同样**不发** ACP 的 `session/update.plan` 通知（wire 探针实测 variant 直方图中 `plan`/`plan_update`/`plan_removed` 均为 0），清单只经 `todowrite` 工具暴露：`tool_call_update` 的 `rawInput.todos`（in_progress 帧）与 `rawOutput.metadata.todos`（completed 帧）各携带**全量快照** `[{content, priority, status}]`，多次调用把条目依次推进 pending→in_progress→completed。桥接层只在**终态（completed）帧**解析快照并发出一个 `plan_update`（in_progress 帧携带同一快照，桥接会重复），status/priority 直接采用 OpenCode 词表（unknown 回落 pending/medium），并缓存 PlanState。**识别依据是快照形状而非工具名**：OpenCode 在终态把标题从 `todowrite` 改成 `N todos` 并丢掉 kind，此时解析出的工具名为空，`todos` 数组是唯一可靠判据。mimo（OpenCode fork）共用同一工具面，一并覆盖。真机探针在 `internal/ai/opencode_acp_plan_probe_integration_test.go`（`-tags integration`）
 - **CodeBuddy Agent Teams 桥接（`codebuddy_team_bridge.go`）**：CodeBuddy 的**多智能体团队**（多个具名成员并行协作）走 ACP 而**不新增任何方法**——团队状态挂在标准 `session_info_update` 的 `_meta["codebuddy.ai/teamUpdate"]`（`{type, teamName, isAutoTeam, hasLiveMembers, members[]}`，type 取 `team_created` / `member_status_change` / `team_idle` / `team_deleted`），成员内容挂在标准 content/tool 帧的 `_meta["codebuddy.ai/memberEvent"]`（值即成员名）。**关键差异：成员帧不带 `parentToolCallId`**（实测 116/116），因此现有子智能体归组（按 parent id）**无法路由团队内容**；线上唯一可用的关联键是**成员名**——它同时出现在 Agent 派发工具调用（`_meta.memberName` + `subagentType`，是成员名与 toolCallId 唯一共存处）和每个成员内容帧（`memberEvent`）。桥接层据此记录「成员名 → 派发 toolCallId」并回填 `ParentToolCallID`，让既有前端分组零改动生效（集成方案「方案 A」）。`StreamEvent` 另带 `MemberName` / `MemberColor`，供前端团队面板与权限卡成员徽标使用。协议面实测见 `docs/dev/codebuddy_acp_team_integration.md`，真机探针在 `internal/ai/codebuddy_acp_team_probe_integration_test.go`（`-tags integration`）
-
+- **用户自定义 ACP 智能体走同一条 ACP 链路**：任何能以 stdio 说 ACP 的工具都能接入（`backend=custom-acp`，见[配置与自动发现](../infra/config-and-discovery.md)），**不需要新增后端子包**——`NewACPBackend` 的唯一前提是 `agent.AcpCommand != ""`，spawn 用 `strings.Fields` 拆分该命令（`acp_conn_lifecycle.go`），握手、模式、斜杠命令、权限审批、模型上报全部复用现有实现。代价是能力面完全由该 agent 自报：没有 `BackendSpec` 就没有 `BackendSupportsCLI`、没有 `ModelSource`、没有预置思考档位，因此它只有 ACP 传输一种运行方式，且在首次 `session/new` 之前模型列表为空（**正常状态**，客户端显示「默认」占位并不发 `modelId`）。
+- **智能体自检分两级、分两个路由**：`POST /api/agents/{id}/self-test` 只读持久化状态 + 后端注册表 + 文件系统（唯一的副作用是 `exec.LookPath`），**不 spawn、不计费**；`self-test-deep` 真实跑一轮并回报 `{reply, transport, stopReason, durationMs}`（后两者取自**落库的回合元数据**，是事实而非配置）。分成两个路由而不是一个带 flag 的接口，是为了让客户端无法用一个字段意外触发付费调用；深度自检自己先跑静态自检，有 `fail` 就直接返回。**`backend_known` 的判据不是「backend 在注册表里」**——YAML 定义的 agent（E2E 的 acp-mock）与自定义 ACP 智能体都没有注册表条目却完全可用，判据是「有 spec / 有 CLI 工厂 / 有存储的 `acp_command`」三者之一，否则自检会在唯一能正常工作的那类 agent 上误报。
 - **ACP context_state 持久化**：ACP 会话的 mode、thinking effort、usage 状态持久化到 `chat_sessions.context_state` 列（JSON 格式）。服务重启后加载会话时即可恢复状态显示，无需等待 ACP 重连推送。部分更新通过原子合并操作写入，避免并发读-写-合并竞态。详见 [会话生命周期](session-lifecycle.md)
 - **流式事件标准化**：各后端不同的输出格式经 LineParser（CLI）或 ACP 事件翻译层（ACP）统一为标准 StreamEvent 类型。ACP 额外提供 mode_update、config_update、thinking_effort_update、plan_update、model_list_update、commands_update 等能力事件。`model_list_update` 与 REST 通道下发的是**同一份已解析列表**——ACP 只给出原始模型清单，后端经 `EnrichModelList` 附加 CLI 基线与合并结果（CLI 模型 + ACP 模型按 id 合并），三条通道（WS 事件、`GET /api/agents`、`GET /api/ai/chat`）形状一致，避免"新建会话只看到 ACP 模型、看不到 CLI 模型"这类因消费方各自补全而出现的差异
 - **AskQuestion 标签转换**：`ConvertAskQuestionBlocks()` 检测文本 Block 中的 `<clawbench-ask-question>` 标签（AI Agent 偶尔在文本中输出结构化交互请求），标签内为原生 Markdown，将其解析并转换为标准 `tool_use` Block（name=`AskUserQuestion`）。只认标准闭合标签；未闭合或载荷不可解析时保留可见文字。保证前端交互 UI（确认/选择）能统一处理所有形式的交互请求

diff --git a/README.md b/README.md
@@ -106,7 +106,7 @@ clawbench
 | 🎨 **代码预览与编辑** | CodeMirror 浏览/编辑双模式、语法高亮、自动补全（11 种语言）、**Sticky Scroll**、VS Code 风格搜索条、文件改动闪烁高亮、**Excalidraw 画布**（`.xdraw` / `.excalidraw`）、**HTML 渲染预览**（沙箱 iframe，快捷预览窗格与查看器共用）、路径跳转与行范围导航 |
 | 📝 **Markdown** | 渲染/源码切换、TOC 抽屉、LaTeX 公式、Mermaid 图表、图片灯箱、**代码链接预览浮层**、**自包含 HTML 导出**（KaTeX 字体内联） |
 | 📄 **文档与媒体** | Word / Excel / PowerPoint 原生渲染、PDF 分页缩放、图片/音频/视频内联播放、灯箱放大 |
-| 🤖 **AI 智能体** | **18 个后端**（CodeBuddy、Claude Code、OpenCode、Codex、Qoder、VeCLI、CodeWhale、DeepSeek Harness、MiMo、Pi、Copilot、Kimi、Antigravity、Grok Build、ZCode、Cursor、Hermes Agent、Command Code）、流式响应、思维过程可见、**子智能体内容分组**、**多智能体团队面板**（CodeBuddy Agent Teams：成员名册 + 状态 + 工具计数 + token 用量，权限卡带成员徽标）、**自定义头像**（40 款 DiceBear 风格，改种子整体刷新）、**拖拽排序**（顺序全局生效）、深度思考档位（**按「智能体 + 模型」分别记忆**，换模型不会把上一档位硬套过去）、模型选择持久化、**点选即切换模型**（Hermes 走 `session/set_model`）、ACP 上下文状态持久化、**会话/任务计数 + 禁用开关 + 删除守卫**（禁用即从所有新建入口隐藏、已有会话不受影响）、**「仅当前项目」作用域**（智能体只在某个项目可见）、**跨智能体技能发现**（任意智能体安装的 Skill 对所有智能体可见，含**项目自带 `.agents/skills`**、git 源同步与去重；自动注入为 opt-in，默认关） |
+| 🤖 **AI 智能体** | **18 个后端**（CodeBuddy、Claude Code、OpenCode、Codex、Qoder、VeCLI、CodeWhale、DeepSeek Harness、MiMo、Pi、Copilot、Kimi、Antigravity、Grok Build、ZCode、Cursor、Hermes Agent、Command Code）、**自定义 ACP 智能体**（任何以 stdio 说 ACP 的工具，填启动命令即可接入，无需后端适配）、流式响应、思维过程可见、**子智能体内容分组**、**多智能体团队面板**（CodeBuddy Agent Teams：成员名册 + 状态 + 工具计数 + token 用量，权限卡带成员徽标）、**自定义头像**（40 款 DiceBear 风格，改种子整体刷新）、**拖拽排序**（顺序全局生效）、深度思考档位（**按「智能体 + 模型」分别记忆**，换模型不会把上一档位硬套过去）、模型选择持久化、**点选即切换模型**（Hermes 走 `session/set_model`）、ACP 上下文状态持久化、**会话/任务计数 + 禁用开关 + 删除守卫**（禁用即从所有新建入口隐藏、已有会话不受影响）、**「仅当前项目」作用域**（智能体只在某个项目可见）、**跨智能体技能发现**（任意智能体安装的 Skill 对所有智能体可见，含**项目自带 `.agents/skills`**、git 源同步与去重；自动注入为 opt-in，默认关） |
 | 💬 **AI 对话** | 工具调用可视化、**交互式提问卡**、推荐回复、斜杠命令（合并 ACP 与内置，含 **`/btw` 旁路问答**——由摘要模型基于会话快照作答，不占用当前 agent）、**统一引用卡片**（划词/文件/议题/流水线/消息同一形态，批注可改、可跳回来源；引用与附件**一律先弹目标会话选择**，可只添加、添加并打开或新建会话，支持跨会话引用）、**外链统一为可选中文本**（长按可复制、点击先确认完整 URL 再打开）、消息队列、**运行中插话**（把消息并入正在生成的回复，Claude/Codex 合并式插入会标注「回复已并入上一轮」）、断连保护、**异常终止自动继续**、**自动巡航**（会话级正交开关，AI 持续自我推进到确认任务完成，而非回复一轮就交回）、消息回溯（Rewind）与分叉、自动摘要、RAG 结果卡片、输入草稿恢复、完成弹窗 |
 | 👥 **AI 群聊** | **多智能体协作/辩论**：把多个智能体（可跨后端）拉进一个群。**主持人模式**——主持人决定下一个谁发言并下达指令，成员轮流发言、共享上下文，结束时产出汇总；**自由模式**——无主持人，成员用 **@ 提及**接力，可 @ 你交回人类。**自动巡航**（正交开关）——打开后循环不再交回你，而是持续讨论到成员确认任务已完成（主持人一人拍板 / 自由模式过半确认），会话信息栏显示「自动巡航」chip。**同一智能体可加多次（多实例）**——每个实例有独立昵称（名池名）与头像，并披露**真实智能体名**；成员**独立持久连接**（复用 resume/空闲回收）、**增量注入**（只补上次发言后的新内容）、**@ 成员卡**（卡片即公开点名、批注即密送）、**用户昵称**（成员怎么称呼你，与智能体名双向不重名）、**密送**（只给指定成员看）、**并发发言**（同时发言、互不参考）、**按成员的上下文用量与单成员压缩**（花名册里看每个人自己的窗口占用、单独压缩某个成员的记忆且不打断群时间线）、成员增删系统事件、群内附件与引用、**点发言人头像直达该智能体配置页**、人类随时插话（排队「插话」）、`/cb-*` 命令由主持人执行 |
 | 📂 **会话管理** | 多会话创建/切换/归档/**移除**、**会话标签**（按项目隔离、哈希配色）、**AI 自动命名**（首条消息后由摘要模型生成标题，与手动「生成标题」同实现）、未读按**条目**计数、按项目恢复上次会话、滑动切换开关、**会话分享**（对话快照的公开只读链接，含目录导航，按项目隔离管理） |

diff --git a/docs/Skills/clawbench-user-guide/SKILL.md b/docs/Skills/clawbench-user-guide/SKILL.md
@@ -1070,7 +1070,7 @@ sqlite3 "file:$HOME/.clawbench/ClawBench.db?mode=ro&immutable=1" \
 | 用户昵称 | 设置 → 聊天 → 群聊 → 用户昵称（`chat.user_nickname`） | 智能体在群里称呼你的名字，默认 `User`；@ 芯片显示它（不再显示「你」） |
 | 真实名标签 | `.real-agent-name-tag`（共享组件 `RealAgentNameTag`） | 昵称是自动名池名/`本名 序号` 时显示底层真实智能体名；消息头 `.msg-speaker-real`、成员行 `.gm-real-name`、补全行 `.completion-real-name` 都用它 |
 | @ 成员卡 | `.chat-attachment-tags .mention-card`（名字 `.mention-card-name`，锁 `.mention-card-lock`） | 输入框附件条 |
-| 智能体设置 | `.settings-agents-index__row` / `.settings-agents-index__rescan-row`（**三行**，用 `[data-action=agent-create|agent-rescan|agent-selftest-all]` 区分）/ `.settings-agents-index__name` | 进设置 → 点「智能体」分类行；详情页 `.settings-agent-detail`（两组动作：`.settings-agent-detail__selftest-btn` 自检 ×2、`.settings-agent-detail__action-btn` 复制/禁用、`.settings-agent-detail__delete-btn` 删除） |
+| 智能体设置 | `.settings-agents-index__row` / `.settings-agents-index__rescan-row`（**两行**，用 `[data-action=agent-create|agent-rescan]` 区分）/ `.settings-agents-index__name` | 进设置 → 点「智能体」分类行；详情页 `.settings-agent-detail`（两组动作：`.settings-agent-detail__selftest-btn` 自检 ×2、`.settings-agent-detail__action-btn` 复制/禁用、`.settings-agent-detail__delete-btn` 删除） |
 
 ### 拍法要点
 
@@ -1081,7 +1081,7 @@ sqlite3 "file:$HOME/.clawbench/ClawBench.db?mode=ro&immutable=1" \
 3. **自由时间线（`group-03-free`）**：打开自由群 → 同样滚到底 → 从后往前找含 `.msg-mention-summary` 或 `.msg-bcc` 的消息滚到顶。标题栏左侧的 `.group-mode-badge` 是 `@`。**图注必须按图里真实内容写**：这一条 `@` 的可能是**用户**（话权交回你），与「成员互相 @ 接力」不是一回事。
 4. **群设置抽屉**：点 `.group-avatar-stack`（Playwright `el.click()`，合成 `.click()` 对 Teleport 抽屉不可靠）→ 等 ~1.6s。**两种模式各拍一张**：主持人版有「自动批准 + 自动巡航」两项，自由版有「并发执行 + 自动批准 + 自动巡航」**三项**（`#group-parallel` 仅自由模式）。自检：`.gm-row` 数 = 成员数、每行 `.gm-usage` 有百分比（CLI 传输的成员是 `—`）。抽屉标题是「群聊设置」。
 5. **@ 成员卡（`group-06-mention-card`）**：**必须用 Playwright 真实输入事件**——`ta.fill('@')` 打开 `.completion-item` 菜单（群会话里成员候选排最前，池名成员带 `.completion-real-name` 标签），用 `page.$$('.completion-item')` 取句柄后 `items[1].click()`（在 `evaluate` 里点 DOM 不触发 Vue 的选中逻辑）；**再点卡片**弹出密送批注框（`.dlg-textarea`），填入内容点「确定」→ 卡片出现锁（`.mention-card-lock` / `.is-private`）；最后 `ta.fill('问题正文')`。合成 `element.click()` / 直接设 `value` **不会**弹出该菜单（同 §八 第 10 条）。自检：`.chat-attachment-tags .mention-card` 存在且 `.mention-card-name` 非空、`.mention-card-lock` 存在、`.chat-textarea` 的 value **不含** `clawbench-mention`。
-6. **智能体设置（`group-07`/`group-08`）**：说明「智能体从哪来」用。点 `.wide-dock .dock-btn[data-tab="settings"]`（**只在 settings 标签未激活时点**，否则会把它切换关闭）→ 点 `.settings-index__row`（文本以「智能体」开头）→ 拍列表（`group-07`）；再点某行 `.settings-agents-index__row` 进详情（`group-08`）。自检：`group-07` 顶部有**三行** `[data-action="agent-create"]` / `[data-action="agent-rescan"]` / `[data-action="agent-selftest-all"]`，且 `.settings-agents-index__row` > 0；`group-08` 的 `.settings-agent-detail` 存在，底部有**两组**按钮——`.settings-agent-detail__selftest-btn`（运行集成测试 / 跑一轮真实对话）×2、`.settings-agent-detail__action-btn`（复制/禁用）×2 与 `.settings-agent-detail__delete-btn`（删除）。**详情页要滚到底**（`.settings-page__body` 的 `scrollTop = scrollHeight`），否则自检按钮与删除按钮都在视口外。
+6. **智能体设置（`group-07`/`group-08`）**：说明「智能体从哪来」用。点 `.wide-dock .dock-btn[data-tab="settings"]`（**只在 settings 标签未激活时点**，否则会把它切换关闭）→ 点 `.settings-index__row`（文本以「智能体」开头）→ 拍列表（`group-07`）；再点某行 `.settings-agents-index__row` 进详情（`group-08`）。自检：`group-07` 顶部有**两行** `[data-action="agent-create"]` / `[data-action="agent-rescan"]`（批量「测试全部」入口已移除，若截到第三行说明跑的是旧产物），且 `.settings-agents-index__row` > 0；`group-08` 的 `.settings-agent-detail` 存在，底部有**两组**按钮——`.settings-agent-detail__selftest-btn`（运行集成测试 / 跑一轮真实对话）×2、`.settings-agent-detail__action-btn`（复制/禁用）×2 与 `.settings-agent-detail__delete-btn`（删除）。**详情页要滚到底**（`.settings-page__body` 的 `scrollTop = scrollHeight`），否则自检按钮与删除按钮都在视口外。
 
 ### 群聊专属陷阱
 

diff --git a/docs/user-guide/settings.md b/docs/user-guide/settings.md
@@ -121,11 +121,43 @@
 
 扫描服务器上装了哪些 AI CLI，并配置它们的默认模型。**移动端**同为扫描/配置 AI CLI 与默认模型。
 
-![智能体设置](screenshots/set-04-agents.png)
+![智能体设置：添加 ACP 智能体 / 重新扫描 + 已配置列表](screenshots/set-04-agents.png)
 
+- **添加 ACP 智能体**：接入内置列表之外的工具，见下一节
 - **重新扫描**：重新探测服务器上已安装的 AI CLI
 - 智能体列表：每个智能体可进入详情页，查看配置、复制、删除
 - **拖拽排序**：按住每行左侧的拖拽手柄上下拖动即可调整顺序，松手即保存。顺序是**全局的**——新建会话、新建任务、群聊加成员等所有智能体选择入口都按这个顺序列出
+
+### 添加内置列表之外的智能体（自定义 ACP）
+
+如果某个 AI 工具**没有内置适配器**，但它支持以 **stdio 方式说 ACP**，可以直接接入，不必等 ClawBench 为它写后端：点列表顶部的「**添加 ACP 智能体**」，填两项即可——
+
+![添加 ACP 智能体](screenshots/set-agents-create-acp.png)
+
+| 字段 | 说明 |
+|---|---|
+| **名称** | 在会话、任务、群聊里显示的名字。**全局唯一**：与已有智能体重名会被拒绝，与群聊「用户昵称」相同也会被拒绝 |
+| **ACP 启动命令** | 启动该工具 ACP 服务的命令，例如 `trae acp`。**按空格拆分成可执行文件 + 参数，不支持引号**，所以带空格的参数无法表达；上限 4096 字节 |
+
+> ⚠ **命令会以服务端进程的权限执行**。只填你信任的可执行文件——这与终端 API 给你的权限本来就是一回事，但别从不可信来源复制命令。
+
+新建后传输固定为 **ACP**，模型、模式、斜杠命令、思考档位都由该工具在首次连接时自行上报。因此**刚建好时模型列表是空的，这是正常现象**（界面显示「默认」，发送时不指定模型，由它自己决定），不是配置错误——跑一次配置自检会看到对应项是「警告」而非「失败」。
+
+**命令写错了不用删掉重建**：进详情页改「ACP 命令」那一行即可（改完会重启该智能体的 ACP 连接，新命令下一轮生效）。只有**内置后端**的命令是只读的——它由自动扫描维护，手改会在下次「重新扫描」或重启时被改回去，所以界面直接不让你改。
+
+### 集成测试（自检）
+
+自检在**智能体详情页**按需对单个智能体运行，分两级：
+
+![集成测试：ACP 命令行 + 两个测试按钮](screenshots/set-agents-selftest.png)
+
+上图：信息组的「ACP 命令」行（内置后端为只读，并注明命令由自动扫描维护）；下方是「运行集成测试」与「跑一轮真实对话」两个按钮，再往下是复制 / 禁用 / 删除。
+
+- **运行集成测试**（免费、秒级）：只读配置与文件系统，**不启动进程、不消耗额度**。逐项检查后端是否可识别、传输与命令是否自洽、可执行文件是否存在、模型与首选模式是否有效、ACP 能力缓存等，结果分 `通过` / `警告` / `失败`。
+  - **「警告」不等于坏了**——它表示「降级但可用」，例如新加的自定义 ACP 智能体在首轮之前还没有上报模型。
+- **跑一轮真实对话**（**会消耗模型额度**）：真正发一条消息并等回复，报告模型原文、**实际使用的传输方式**与结束原因——这些取自落库的回合记录，是事实而不是配置。配置自检有「失败」项时它不会执行（避免白等一个回合）。
+
+> 判断「智能体能不能用」不能只看创建成功：一个起不来的智能体在自检之前和正常的一模一样。这也是为什么 `/cb-agent` 被要求创建后必须跑一遍自检。
 
 点智能体进入详情页可配置默认模型等偏好：
 

diff --git a/docs/user-guide/README.md b/docs/user-guide/README.md
@@ -100,7 +100,7 @@ ClawBench 是面向手机 / 平板 / 桌面的多端 AI 工作台。本手册同
 
 ## 15. 设置
 
-所有配置项的入口，按分类排列。
+所有配置项的入口，按分类排列。「智能体」一节除扫描已装的 AI CLI 外，还能**添加内置列表之外的 ACP 智能体**（填名称 + 启动命令即可接入），并可用**集成测试**验证它是否真的能用（配置自检免费，深度自检真实跑一轮、会消耗额度）。
 
 **详解**：[设置](settings.md) · [语音朗读（TTS）](TTS.md) · [会话搜索（RAG）](RAG.md)
 
